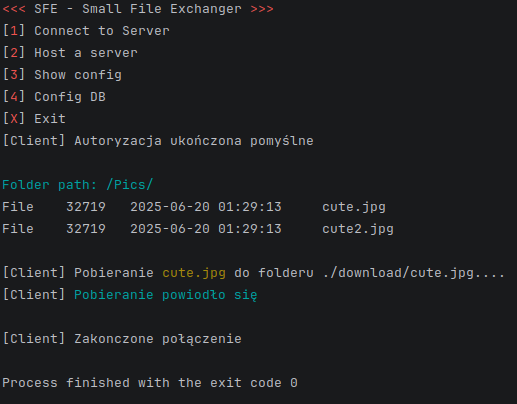
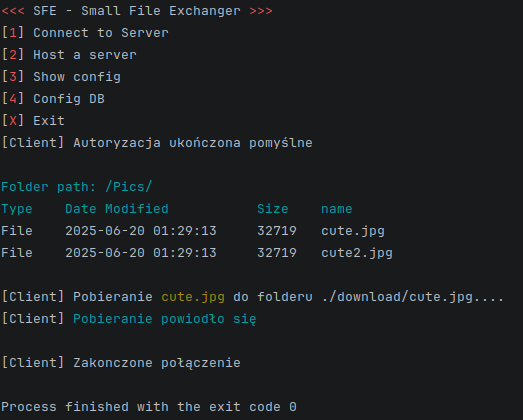
Printing changed file listing @client/@ExploreDir

diff --git a/client/root.go b/client/root.go
@@ -11,6 +11,7 @@ import (
 	"sfe/listener"
 	"sfe/settings"
 	"strconv"
+	"strings"
 
 	"github.com/spf13/viper"
 	"golang.org/x/term"
@@ -62,9 +63,24 @@ func ExploreDir(dir string) []byte {
 	if err != nil {
 		fmt.Println("Error unmarshaling JSON:", err, "\r")
 	}
+
+	var largestFile int64 //do sformatowania później listingu plików...
+	for _, file := range filesJson {
+		if file.Size > largestFile {
+			largestFile = file.Size
+		}
+	}
+	posNeeded := len(strconv.Itoa(int(largestFile)))
+
+	fmt.Printf("\u001B[36mType \tDate Modified\t\t%s \tname\r\u001B[0m\n\r", "Size"+strings.Repeat(" ", posNeeded-4))
 	for _, file := range filesJson {
 		//	fmt.Printf("Name: %s\nType: %s\nSize: %d bytes\nDate Modified: %s\n", file.Name, file.Type, file.Size, file.DateModified)
-		fmt.Printf("%s\t%s\t\t%s\t%s\r\n", file.Type, strconv.Itoa(int(file.Size)), file.DateModified, file.Name)
+
+		fmt.Printf("%s \t%s \t%s \t%s\r\n",
+			file.Type,
+			file.DateModified,
+			strconv.Itoa(int(file.Size))+strings.Repeat(" ", posNeeded-len(strconv.Itoa(int(file.Size)))),
+			file.Name)
 	}
 	fmt.Println("\r")
 	return bodyBytes

diff --git a/cmd/clientcmd.go b/cmd/clientcmd.go
@@ -7,7 +7,7 @@ import (
 	"github.com/spf13/cobra"
 )
 
-// TODO: exploreDir, downloadFile, downloadDir, uploadFile, uploadDir
+// TODO: downloadFile, downloadDir, uploadFile, uploadDir
 // TODO: changePass from clientside
 
 var exploreDirCmd = &cobra.Command{
